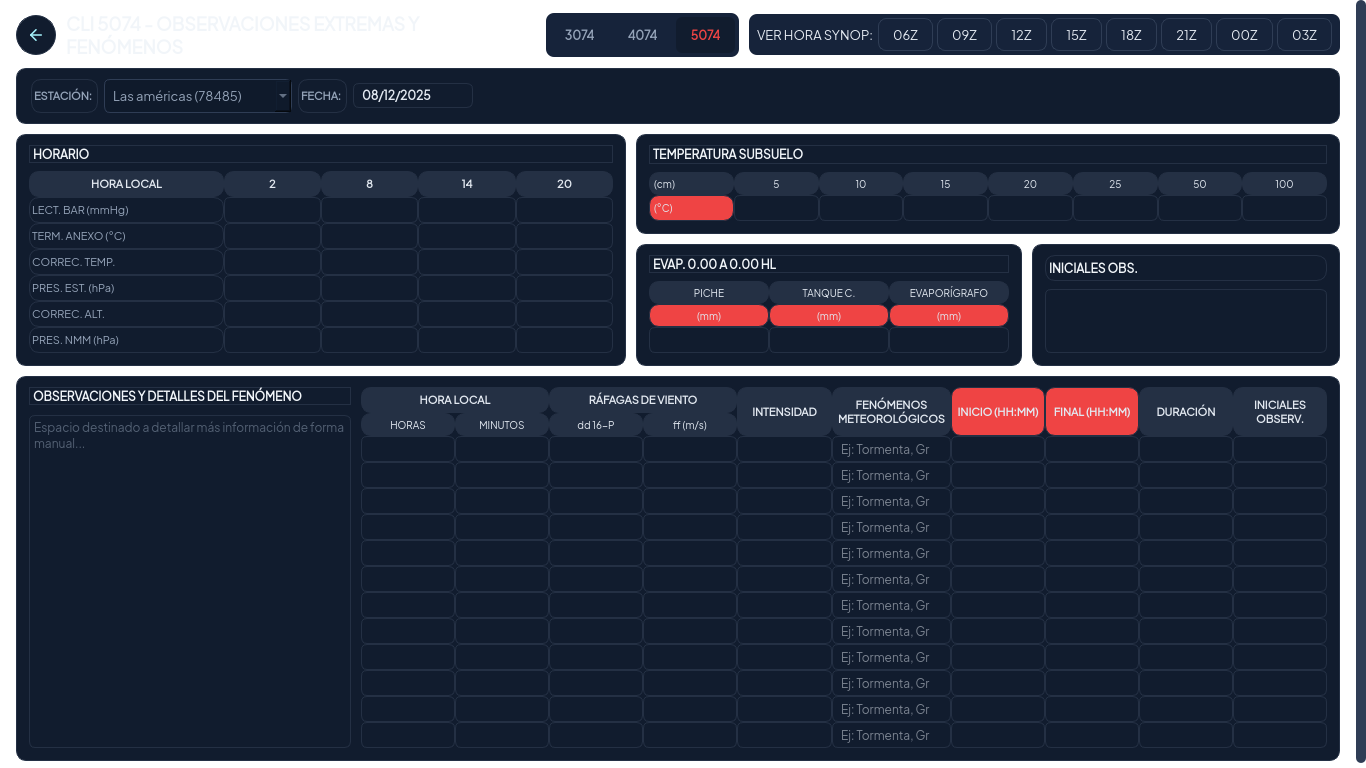
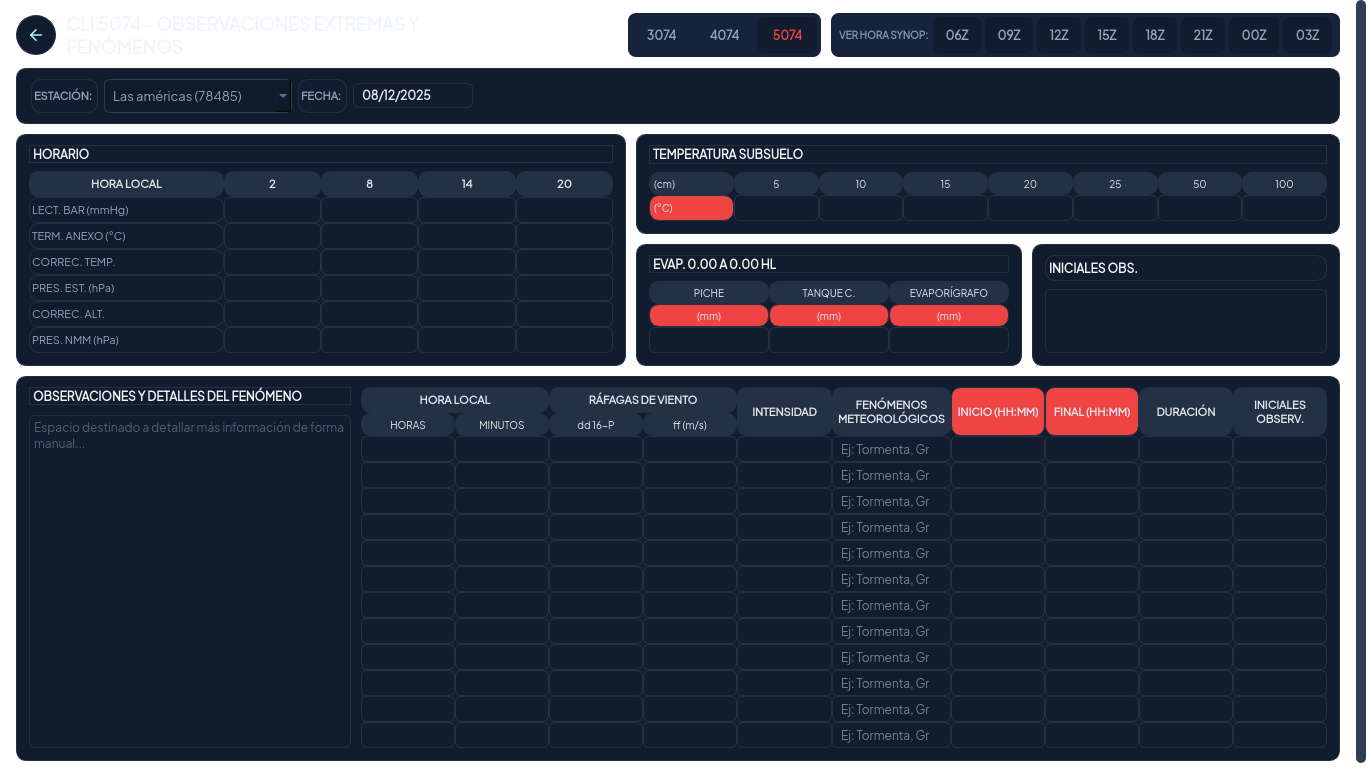
fix(cli): cero hojas sin parsear y títulos con selector propio (F5 bis)
Dos defectos propios, uno arreglado y otro acotado.

Arreglado: el envoltorio daba por resuelta cualquier hoja que contuviera un
`_qss()` **interno**, así que los tokens de las demás líneas llegaban crudos y
Qt no parseaba el botón (`Could not parse stylesheet of object QPushButton`).
Ahora sólo cuenta como envuelta si toda la hoja empieza por `_qss(`, y se
re-envolvieron 1 del 3074, 2 del 4074 y 3 del 5074. La suite y la herramienta
de capturas quedan con **cero** avisos de parseo.

Los títulos de las tres hojas pasan de declaraciones sueltas a
`QLabel#cliTitle`, que es más robusto que una hoja sin selector.

Acotado, no resuelto: en la captura del 5074 el título se ve oscuro sobre
oscuro, pero el widget está bien — su hoja resuelve `color: #f1f5f9` y su
paleta también es `#f1f5f9`. El color oscuro aparece sólo en el PNG, así que el
sospechoso es el camino de captura (`grab`), no el estilo. Se verifica
agarrando esa etiqueta sola; queda como primer punto del próximo corte.

835 passed, EXIT=0.

Changed region(s): [[0.3997, 0.0, 0.9839, 0.0938]]

diff --git a/oms_ui/pages/cli5074.py b/oms_ui/pages/cli5074.py
@@ -209,10 +209,10 @@ class Cli5074View(QWidget):
         top.addWidget(back_btn, 0, Qt.AlignmentFlag.AlignVCenter)
 
         title = QLabel(self.TITLE)
+        title.setObjectName("cliTitle")
         title.setStyleSheet(_qss(
-            # fondo plano (sin fotografía ni degradado): tinta de texto
-                        "font-size: 18px; font-weight: 800; color: $texto_alt;"
-            "background: transparent;"
+            "QLabel#cliTitle { font-size: 18px; font-weight: 800;"
+            "color: $texto_alt; background: transparent; }"
         ))
         title.setWordWrap(True)
         top.addWidget(title, 0, Qt.AlignmentFlag.AlignVCenter)
@@ -461,13 +461,13 @@ class Cli5074View(QWidget):
         ):
             active = module_key == self.MODULE_KEY
             tab = QPushButton(label)
-            tab.setStyleSheet(
+            tab.setStyleSheet(_qss(
                 f"QPushButton {{ background-color: {_qss('$superficie') if active else 'transparent'};"
                 f"color: {_qss('$error_fuerte') if active else _qss('$suave')}; border: none;"
                 "border-radius: 6px; padding: 6px 14px; font-size: 12px;"
                 "font-weight: bold; min-height: 24px; }"
                 "QPushButton:hover { background-color: $ok_fondo; }"
-            )
+            ))
             tab.setCursor(Qt.CursorShape.PointingHandCursor)
             if not active:
                 tab.clicked.connect(
@@ -483,20 +483,20 @@ class Cli5074View(QWidget):
         hour_row.setContentsMargins(8, 4, 8, 4)
         hour_row.setSpacing(4)
         hint = QLabel("VER HORA SYNOP:")
-        hint.setStyleSheet(
+        hint.setStyleSheet(_qss(
             "color: $suave_alt; font-size: 10px; font-weight: 700;"
             "background: transparent;"
-        )
+        ))
         hour_row.addWidget(hint)
         for hour in ("06Z", "09Z", "12Z", "15Z", "18Z", "21Z",
                       "00Z", "03Z"):  # the day starts at 06Z
             button = QPushButton(hour)
-            button.setStyleSheet(
+            button.setStyleSheet(_qss(
                 "QPushButton { background-color: $superficie; color: $suave;"
                 "border: none; border-radius: 6px; padding: 6px 12px;"
                 "font-size: 12px; font-weight: bold; min-height: 24px; }"
                 "QPushButton:hover { color: $error_fuerte; background-color: $error_suave; }"
-            )
+            ))
             button.setCursor(Qt.CursorShape.PointingHandCursor)
             button.clicked.connect(
                 lambda _checked=False, h=hour: self.synop_hour_requested.emit(h)

diff --git a/oms_ui/pages/cli4074.py b/oms_ui/pages/cli4074.py
@@ -195,10 +195,10 @@ class Cli4074View(QWidget):
         top.addWidget(back_btn, 0, Qt.AlignmentFlag.AlignVCenter)
 
         title = QLabel(self.TITLE)
+        title.setObjectName("cliTitle")
         title.setStyleSheet(_qss(
-            # fondo plano (sin fotografía ni degradado): tinta de texto
-                        "font-size: 18px; font-weight: 800; color: $texto_alt;"
-            "background: transparent;"
+            "QLabel#cliTitle { font-size: 18px; font-weight: 800;"
+            "color: $texto_alt; background: transparent; }"
         ))
         title.setWordWrap(True)
         top.addWidget(title, 0, Qt.AlignmentFlag.AlignVCenter)
@@ -269,11 +269,11 @@ class Cli4074View(QWidget):
             number = QLabel(str(row))
             number.setAlignment(Qt.AlignmentFlag.AlignCenter)
             main = (row - 2) % 3 == 0
-            number.setStyleSheet(
+            number.setStyleSheet(_qss(
                 f"background-color: {_qss(_MAIN_STICKY) if main else _qss('$panel')};"
                 f"color: {_qss(_MAIN_NUMBER) if main else _qss('$suave')}; font-weight: bold;"
                 "font-size: 12px; padding: 4px 5px;"
-            )
+            ))
             grid.addWidget(number, row + 1, 0)
             for cindex, (field, _text) in enumerate(self._all_fields()):
                 edit = QLineEdit()
@@ -328,13 +328,13 @@ class Cli4074View(QWidget):
         ):
             active = module_key == self.MODULE_KEY
             tab = QPushButton(label)
-            tab.setStyleSheet(
+            tab.setStyleSheet(_qss(
                 f"QPushButton {{ background-color: {_qss('$superficie') if active else 'transparent'};"
                 f"color: {_qss('$acento_texto') if active else _qss('$suave')}; border: none;"
                 "border-radius: 6px; padding: 6px 14px; font-size: 12px;"
                 "font-weight: bold; min-height: 24px; }"
                 "QPushButton:hover { background-color: $acento_fondo; }"
-            )
+            ))
             tab.setCursor(Qt.CursorShape.PointingHandCursor)
             if not active:
                 tab.clicked.connect(

diff --git a/oms_ui/pages/cli3074.py b/oms_ui/pages/cli3074.py
@@ -307,10 +307,10 @@ class Cli3074View(QWidget):
         back_btn.clicked.connect(self.back_requested.emit)
         top.addWidget(back_btn, 0, Qt.AlignmentFlag.AlignVCenter)
         title = QLabel(self.TITLE)
+        title.setObjectName("cliTitle")
         title.setStyleSheet(_qss(
-            # fondo plano (sin fotografía ni degradado): tinta de texto
-                        "font-size: 18px; font-weight: 800; color: $texto_alt;"
-            "background: transparent;"
+            "QLabel#cliTitle { font-size: 18px; font-weight: 800;"
+            "color: $texto_alt; background: transparent; }"
         ))
         title.setWordWrap(True)
         top.addWidget(title, 0, Qt.AlignmentFlag.AlignVCenter)
@@ -329,13 +329,13 @@ class Cli3074View(QWidget):
         ):
             active = module_key == self.MODULE_KEY
             tab = QPushButton(label)
-            tab.setStyleSheet(
+            tab.setStyleSheet(_qss(
                 f"QPushButton {{ background-color: {_qss('$superficie') if active else 'transparent'};"
                 f"color: {_qss('$acento_texto') if active else _qss('$suave')}; border: none;"
                 "border-radius: 6px; padding: 6px 14px; font-size: 12px;"
                 "font-weight: bold; min-height: 24px; }"
                 "QPushButton:hover { background-color: $acento_fondo; }"
-            )
+            ))
             tab.setCursor(Qt.CursorShape.PointingHandCursor)
             if not active:
                 tab.clicked.connect(
